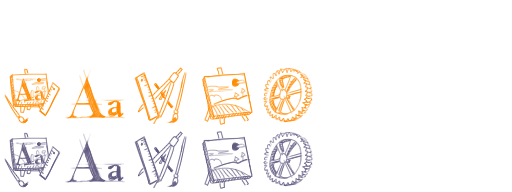
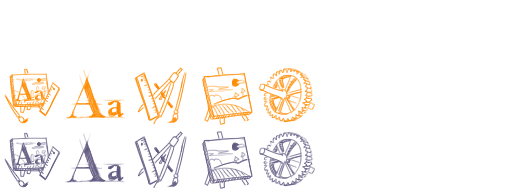
Smol adjustments

diff --git a/new-area/image-creator/index.html b/new-area/image-creator/index.html
@@ -154,6 +154,10 @@
 					<input type=radio name=tabs value=background-stuff>
 					<div class="icon icon-background"></div>
 				</label>
+				<label class='tab hidden'> 
+					<input type=radio name=tabs value=settings>
+					<div class="icon icon-settings"></div>
+				</label>
 			</div>
 
 			<div id=global-sliders class=sliders-container style="margin-bottom:1em">
@@ -487,6 +491,12 @@
 				</div>
 			</div>
 
+			<div id=settings class=sliders-container hidden>
+				<h3> Settings </h3>
+				Nothing yet sorry
+				
+			</div>
+
 		</div>
 		
 	</div>
@@ -521,7 +531,7 @@
 			<h2 style="margin:0 .5em .5em">Am I missing something?</h2>
 			I tried to be exhaustive, but as there is no comprehensive list of all the different "noun verbeds" online,
 			I had to go by all I could find from googling around. 
-			If you know of any particular variations I might have missed, shoot me a message, ideally with a screenshot!<br>
+			If you know of any particular variations I might have missed, shoot me a message, ideally with a screenshot!
 
 			<br><br>
 			<h2 style="margin:0 .5em .5em">Want to contribute?</h2>
@@ -540,7 +550,7 @@
 		<div id=changes-info hidden>
 			<h2 style="margin:0 .5em .5em">Changelog</h2>
 
-			<b>2022/06/20</b> • Updated icons, progressed manual positioning feature <br>
+			<b>2022/06/20</b> • Drew much cuter tab icons, improved the manual positioning feature <br>
 			<b>2022/06/18</b> • (Finally) added some Demon's Souls macros: two "noun verbeds" and two deaths <br>
 			<b>2022/06/17</b> • Added a prototype "nub" that can be dragged to change the overlay position <br>
 			<b>2022/06/17</b> • Added a few missing DS2/DS3 presets, slightly change mobile layout <br>
@@ -552,28 +562,33 @@
 			<h2 style="margin:0 .5em .5em">About font families</h2>
 			The app uses several typefaces to match or emulate those used in the different games.
 			<br><br>
-			For the Dark Souls games, the app uses <a href="https://fonts.adobe.com/fonts/adobe-garamond">Adobe Garamond</a>, 
+			For the <b>Dark Souls</b> games, the app uses <a href="https://fonts.adobe.com/fonts/adobe-garamond">Adobe Garamond</a>, 
 			which may be used on webpages for free through Adobe.
 			The actual font FromSoftware used for these games is unclear,
 			but Adobe Garamond matches it very closely, in particular for Dark Souls III.
 			<br>
-			Starting with Dark Souls II, the "YOU DIED" text uses a notched/weathered variant of the font.
+			Starting with <b>Dark Souls II</b>, the "YOU DIED" text uses a notched/weathered variant of the font,
+			presumably custom made for those specific graphics, not recreated by this app.
 			<br><br>
-			Bloodborne uses the Japanese font <a href="https://en.morisawa.co.jp/fonts/specimen/2673">Reimin Y10</a>
+			For <b>Demon's Souls</b>, the font is closer to <i>Pinnacle JY</i> or <i>ITC Galliard</i>, neither of which I could find a
+			free-to-use equivalent of, instead just using Adobe Garamond again.
+			The main differences are that the true Demon's Souls font has much pointier serifs, and the capital "W" is styled differently. 
+			<br><br>
+			<b>Bloodborne</b> uses the Japanese font <a href="https://en.morisawa.co.jp/fonts/specimen/2673">Reimin Y10</a>
 			for all of its UI, including the noun verbed overlays, even in English.
 			Sadly this font is not available under any free licenses, and for this app it is substituted by several
 			other fonts that are hopefully available on your devices.
 			<br><br>
-			For its decorative Japanese characters, including the iconic 死 pop-up, Sekiro uses 
+			For its decorative Japanese characters, including the iconic 死 pop-up, <b>Sekiro</b> uses 
 			<a href="https://j-font.com/font/detail.php?font_id=7745&pageno=1">白舟極太楷書</a>.
 			This font is not fully available under a free license, however Adobe offers a subset of it 
 			<a href="https://fonts.adobe.com/fonts/hot-gfkaishokk">HOT-GFKaishokk</a> free for web use,
 			which is why the app does not properly render every character in any of the in-game phrases.
 			<br><br>
-			Elden Ring for most of its UI seems to use <a href="https://www.linotype.com/6951/agmena.html">Agmena</a>,
+			<b>Elden Ring</b> for most of its UI seems to use <a href="https://www.linotype.com/6951/agmena.html">Agmena</a>,
 			a font for which I could find no free license.
 			This font very closely resembles the Dark Souls games' Garamond, except it has more square serifs,
-			some blockier details, and the capital Y is significantly different.
+			some blockier details, and the capital "Y" is significantly different.
 			If, hypothetically, you have it installed on your computer, it's available as "Agmena Pro".
 		</div>
 

diff --git a/new-area/new-area.css b/new-area/new-area.css
@@ -400,6 +400,7 @@ canvas.big {
         background-position-x: 0;
     }
     #canvas-overlay > .grabby.scale-grabby {
+        width: 32px; height: 32px;
         background-position-x: -100%;
     }
     #canvas-overlay > .grabby:hover {
@@ -494,7 +495,7 @@ canvas.big {
 .tabs .tab > .icon.icon-selects     { background-position-x: -100%; }
 .tabs .tab > .icon.icon-sliders     { background-position-x: -200%; }
 .tabs .tab > .icon.icon-background  { background-position-x: -300%; }
-.tabs .tab > .icon.icon-options     { background-position-x: -400%; }
+.tabs .tab > .icon.icon-settings    { background-position-x: -400%; }
 
 
 .sliders-container {

diff --git a/new-area/image-creator/macroGenerator.js b/new-area/image-creator/macroGenerator.js
@@ -413,11 +413,12 @@ class MacroGenerator {
                     otherTab.classList.remove('checked')
                 tab.classList.add('checked')
 
-                for( const t in tabbedDivs )
-                    tabbedDivs[t].hidden = (radio.value !== 'all') && (radio.value !== t)
+                for( const t in tabbedDivs ) {
+                    let show = (radio.value === 'all' && t !== 'settings') || (radio.value === t)
+                    tabbedDivs[t].hidden = !show
+                }
             }
         }
-
 
         this.onMacroTypeChange(null, false)
     }
